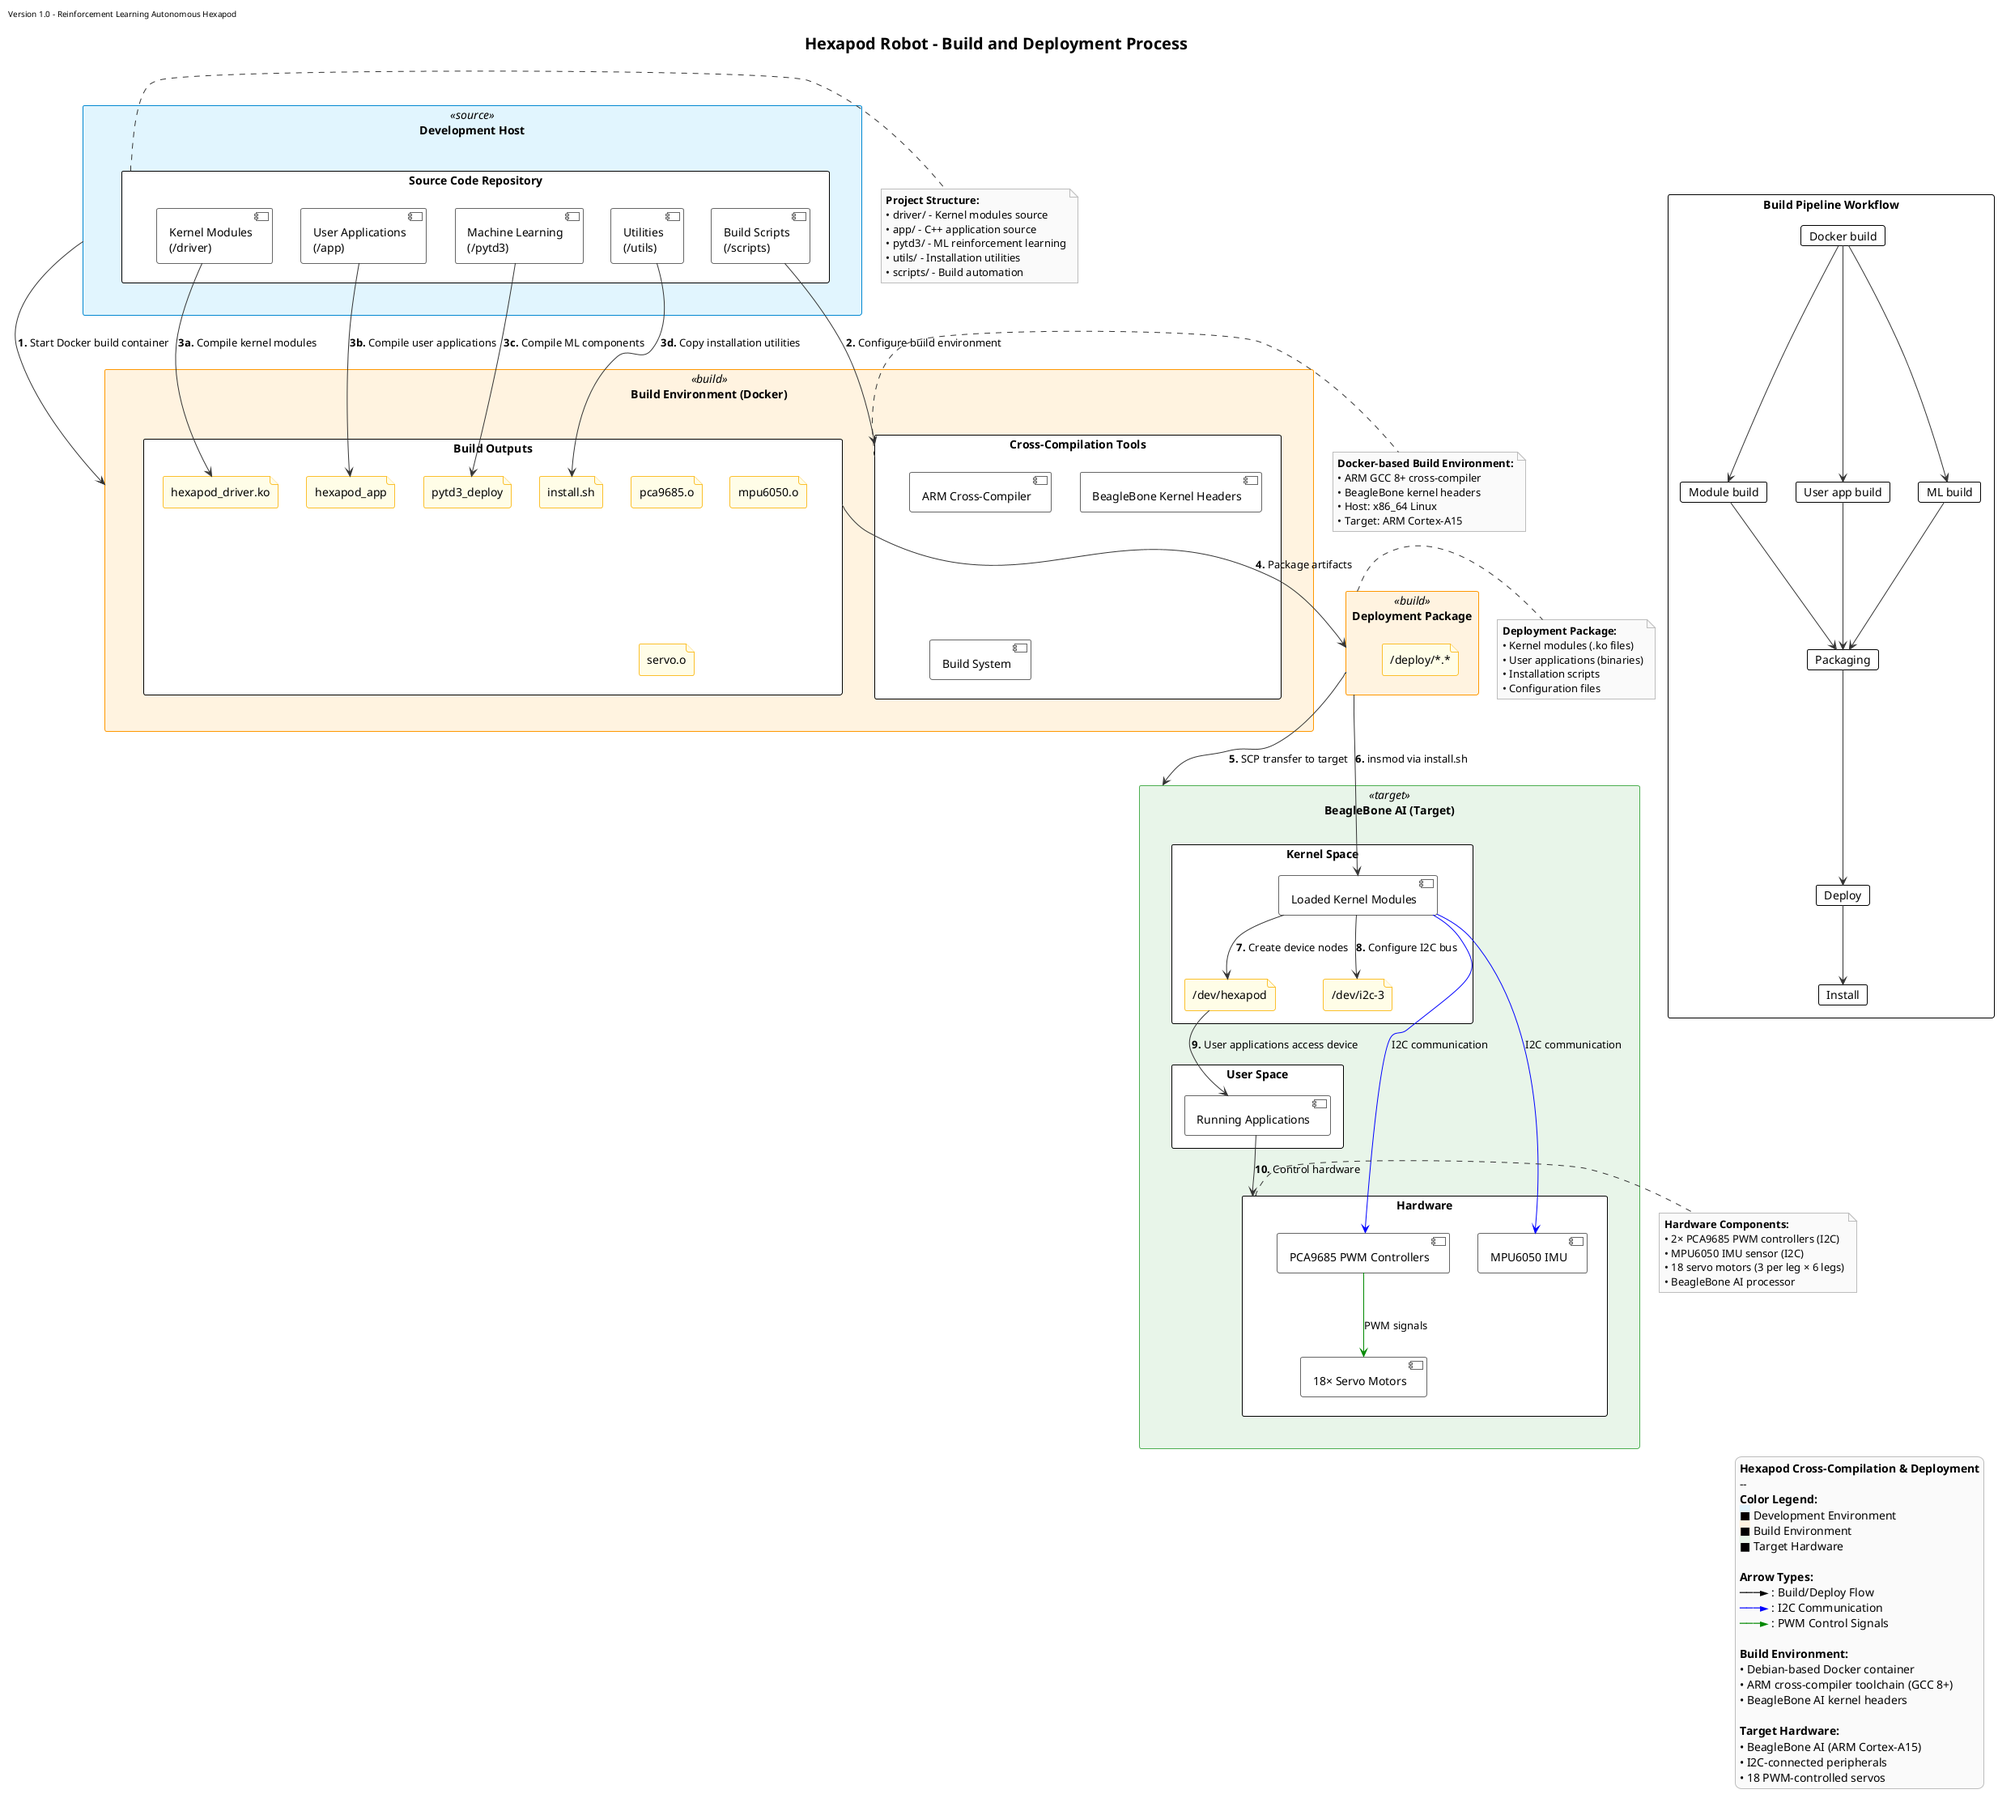
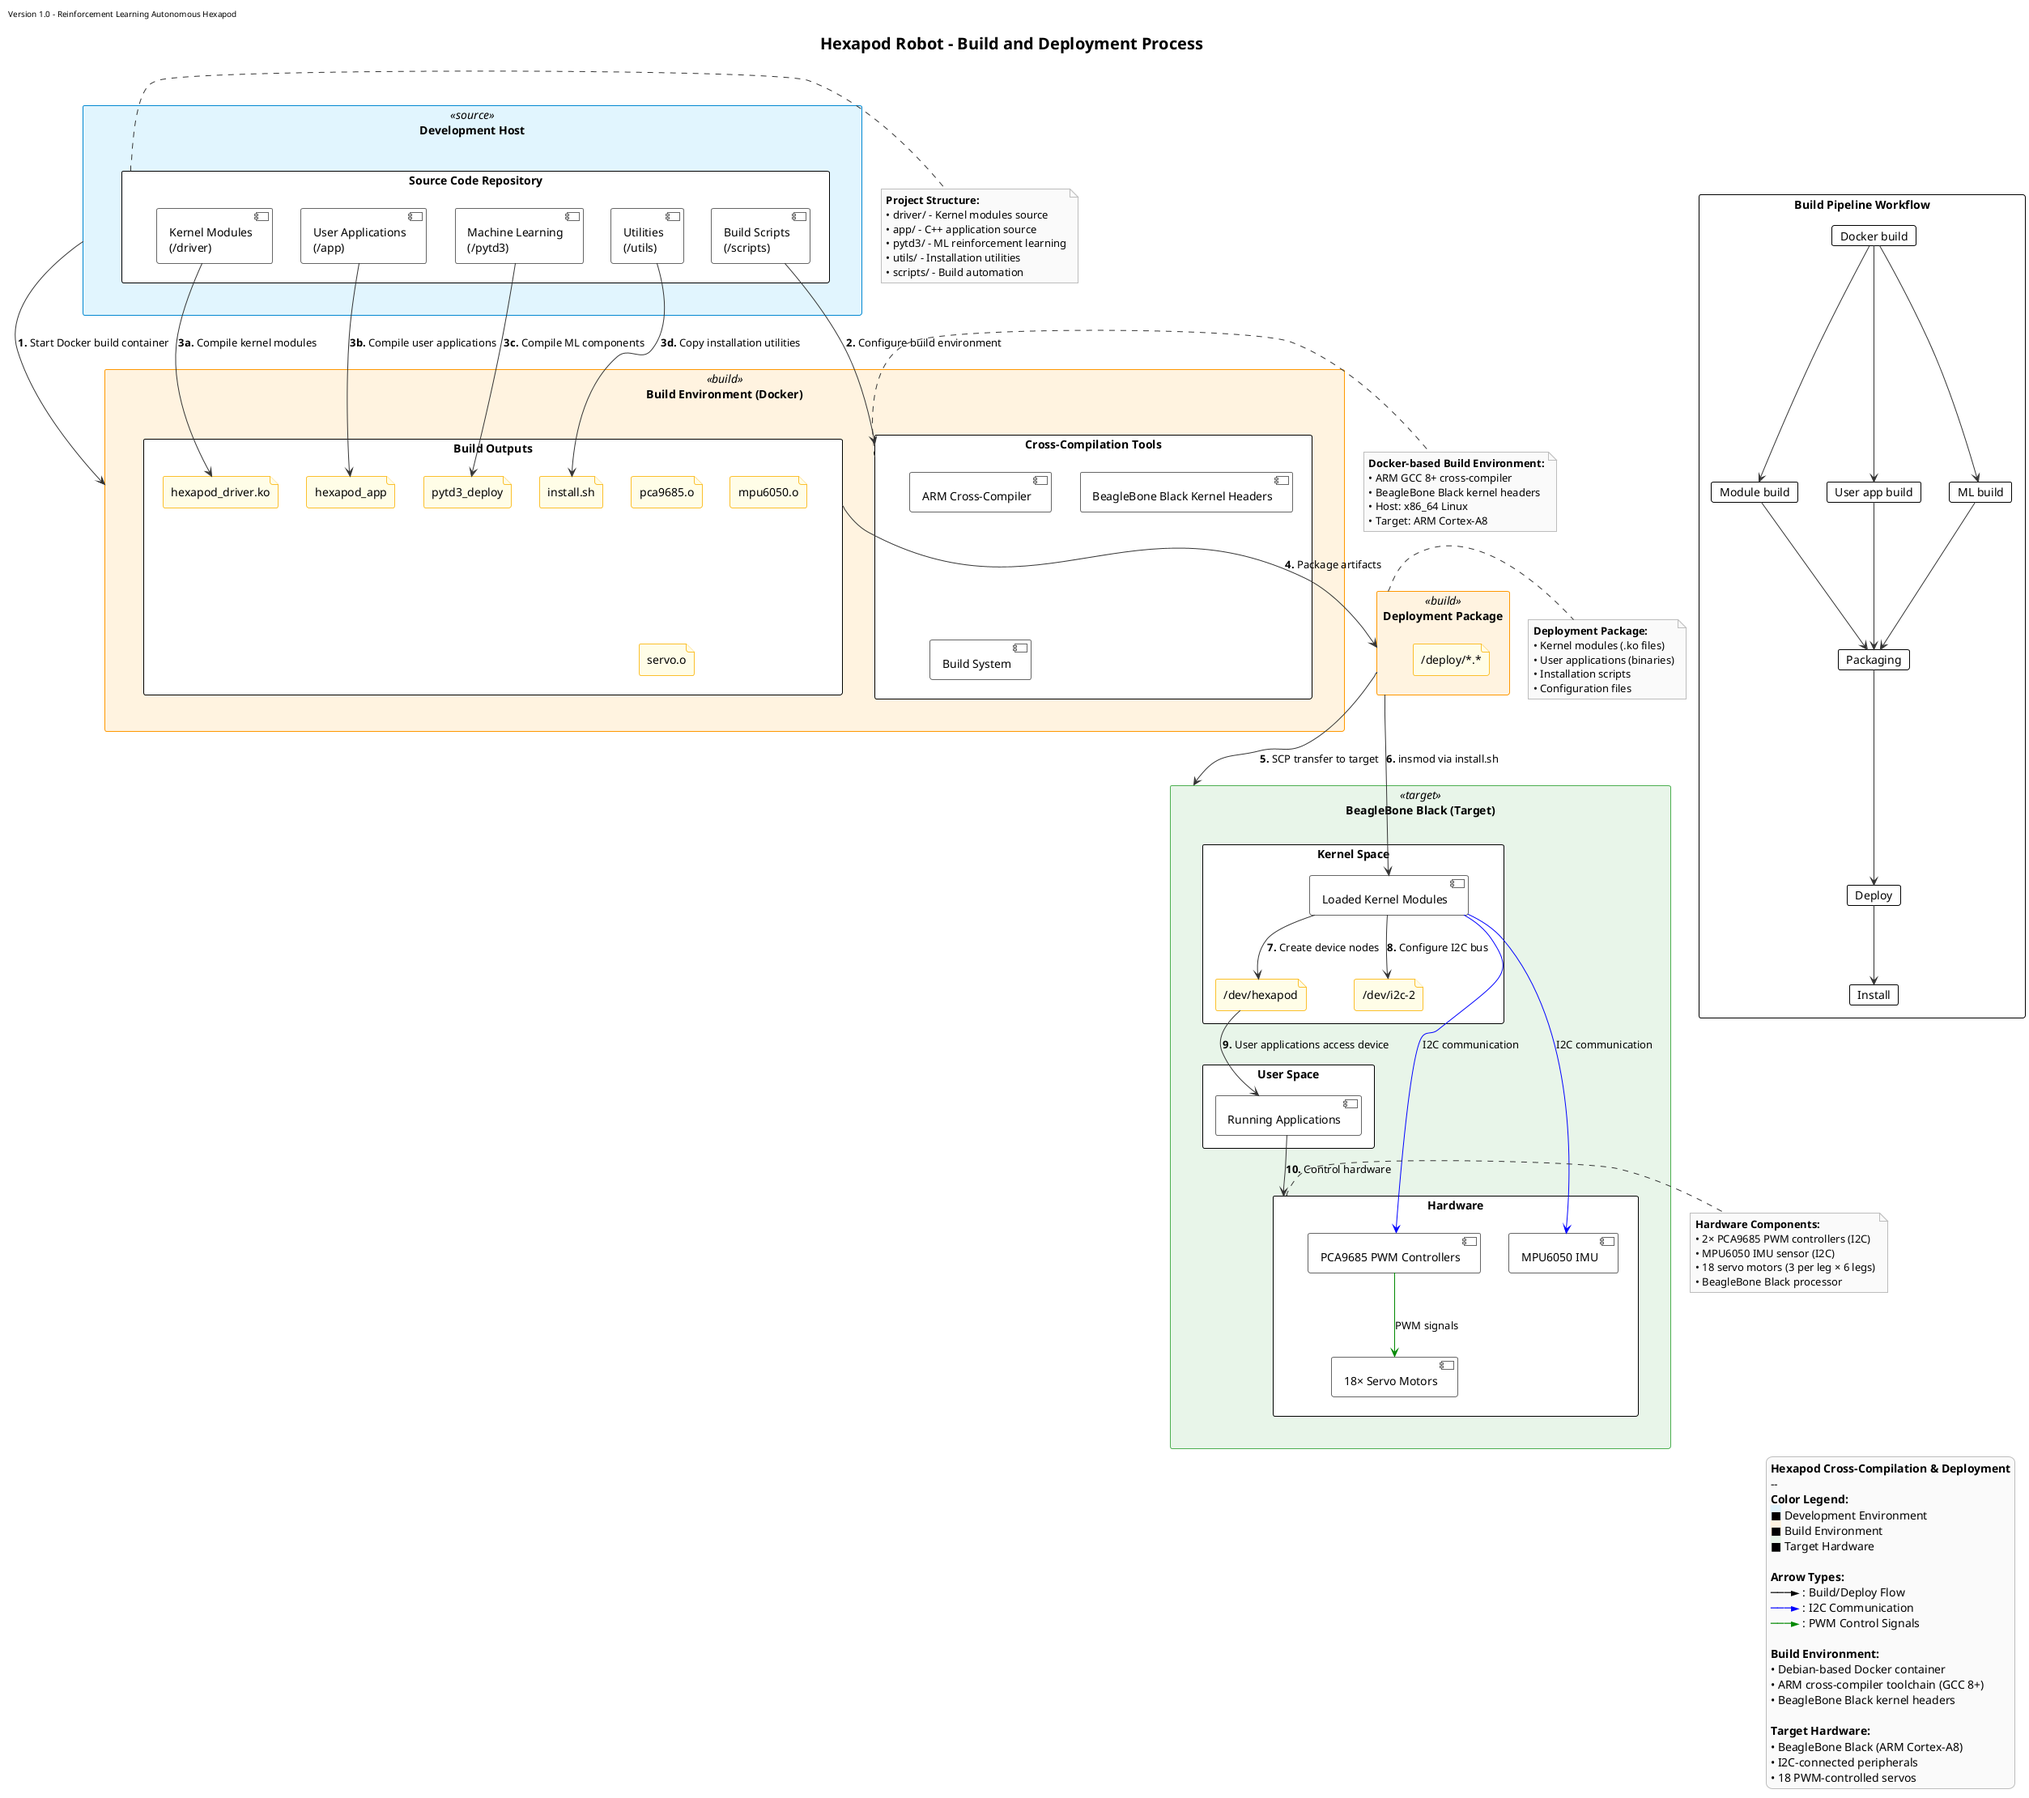
Replace BeagleBone AI with the other branch - Black

diff --git a/docs/overview/hardware.md b/docs/overview/hardware.md
@@ -17,7 +17,7 @@ For detailed visual representation of hardware organization, see the [Component 
 | Operating Voltage     | 6V (servos), 5V (logic)                    |
 | Power Consumption     | 2-10A depending on movement                |
 | Maximum Speed         | ~0.3m/s                                    |
-| Control Board         | BeagleBone AI/Black                        |
+| Control Board         | BeagleBone Black                           |
 | Servo Motors          | 18× MG996R (or compatible)                 |
 | Degrees of Freedom    | 18 (3 per leg)                             |
 | Operating Time        | ~1 hour (with 2800mAh battery)             |
@@ -27,7 +27,7 @@ For detailed visual representation of hardware organization, see the [Component 
 
 | Component Description     | Quantity | Notes                            |
 |---------------------------|----------|----------------------------------|
-| BeagleBone AI/Black       | 1        | Main control board               |
+| BeagleBone Black          | 1        | Main control board               |
 | MG996R Servo Motors       | 18       | 3 per leg (hip, knee, ankle)     |
 | PCA9685 PWM Controller    | 2        | 16-channel PWM controller        |
 | MPU6050 IMU Sensor        | 1        | 6-axis accelerometer + gyroscope |
@@ -75,15 +75,15 @@ The hexapod follows a standard hexapod design with 6 legs arranged radially arou
 
 ### Control System
 
-- **Main Controller**: BeagleBone AI/Black
-  - AM5729 processor
-  - 1GB DDR3 RAM
-  - 16GB onboard eMMC
+- **Main Controller**: BeagleBone Black
+  - AM3358 processor (ARM Cortex-A8)
+  - 512MB DDR3 RAM
+  - 4GB onboard eMMC
   - Linux operating system
 
 - **Servo Control**: Via PCA9685 PWM controllers
   - 2× PCA9685 boards (primary and secondary)
-  - I2C communication from BeagleBone
+  - I2C communication from BeagleBone Black
   - 50Hz PWM signal generation
 
 - **Sensing**:
@@ -92,13 +92,13 @@ The hexapod follows a standard hexapod design with 6 legs arranged radially arou
 
 ## I2C Bus Configuration
 
-The I2C bus 2 on BeagleBone is used for connecting sensors and actuators:
+The I2C bus 2 on BeagleBone Black is used for connecting sensors and actuators:
 
 | Device Description | I2C Address | Bus | Description               |
 |------------------- |-------------|-----|---------------------------|
-| MPU6050            | 0x68        | 3   | 6-axis IMU sensor         |
-| PCA9685 Primary    | 0x40        | 3   | 16-channel PWM controller |
-| PCA9685 Secondary  | 0x71        | 3   | 16-channel PWM controller |
+| MPU6050            | 0x68        | 2   | 6-axis IMU sensor         |
+| PCA9685 Primary    | 0x40        | 2   | 16-channel PWM controller |
+| PCA9685 Secondary  | 0x41        | 2   | 16-channel PWM controller |
 
 ### BeagleBone Pin Configuration
 
